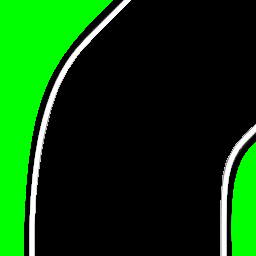
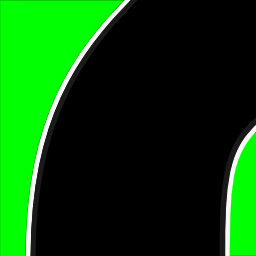
Remove sandAreaCurve45*. Graphics to be added directly to the tile.

Changed region(s): [[0.0, 0.0, 0.5312, 1.0], [0.8438, 0.4688, 1.0, 1.0]]

diff --git a/src/game/trackobjectfactory.cpp b/src/game/trackobjectfactory.cpp
@@ -30,7 +30,7 @@ TrackObjectFactory::TrackObjectFactory(MCObjectFactory & objectFactory)
 {
 }
 
-TrackObject & TrackObjectFactory::build(
+TrackObject * TrackObjectFactory::build(
     QString category, QString role, MCVector2dF location, int angle)
 {
     MCObject * object = nullptr;
@@ -140,8 +140,6 @@ TrackObject & TrackObjectFactory::build(
     else if (
         role == "grid"                 ||
         role == "sandAreaCurve"        ||
-        role == "sandAreaCurve45"      ||
-        role == "sandAreaCurve45Right" ||
         role == "sandAreaBig")
     {
         MCSurfaceObjectData data(role.toStdString());
@@ -196,7 +194,7 @@ TrackObject & TrackObjectFactory::build(
         MCObject & object = m_objectFactory.build(data, *view);
 
         // Wrap the MCObject in a TrackObject
-        return *new TrackObject(category, role, object);
+        return new TrackObject(category, role, object);
     }
     else if (role == "wall" || role == "wallLong")
     {
@@ -216,14 +214,15 @@ TrackObject & TrackObjectFactory::build(
 
     if (!object)
     {
-        MCLogger().fatal() << "Failed to create object '" << role.toStdString() << "'";
+        MCLogger().warning() << "Unknown or deprecated object '" << role.toStdString() << "'";
+        return nullptr;
     }
+    else
+    {
+        object->view()->setShaderProgram(&Renderer::instance().program("master"));
+        object->view()->setShadowShaderProgram(&Renderer::instance().program("masterShadow"));
 
-    assert(object);
-
-    object->view()->setShaderProgram(&Renderer::instance().program("master"));
-    object->view()->setShadowShaderProgram(&Renderer::instance().program("masterShadow"));
-
-    // Wrap the MCObject in a TrackObject
-    return *new TrackObject(category, role, *object);
+        // Wrap the MCObject in a TrackObject
+        return new TrackObject(category, role, *object);
+    }
 }

diff --git a/src/game/trackloader.cpp b/src/game/trackloader.cpp
@@ -352,8 +352,10 @@ void TrackLoader::readObject(QDomElement & element, TrackData & newData)
     // The y-coordinates needs to be mirrored, because the y-axis is pointing
     // down in the editor's coordinate system.
     MCVector2dF location(x, h - y);
-
-    newData.objects().add(m_trackObjectFactory.build(category, role, location, angle), true);
+    if (TrackObject * object = m_trackObjectFactory.build(category, role, location, angle))
+    {
+        newData.objects().add(*object, true);
+    }
 }
 
 void TrackLoader::readTargetNode(

diff --git a/src/game/trackobjectfactory.hpp b/src/game/trackobjectfactory.hpp
@@ -29,8 +29,9 @@ public:
     //! Constructor.
     TrackObjectFactory(MCObjectFactory & objectFactory);
 
-    //! Build and return an MCObject wrapped in TrackObject.
-    TrackObject & build(QString category, QString role, MCVector2dF location, int angle);
+    /*! Build and return an MCObject wrapped in TrackObject.
+     *  \return nullptr on an unknown or deprecated object. */
+    TrackObject * build(QString category, QString role, MCVector2dF location, int angle);
 
 private:
 
